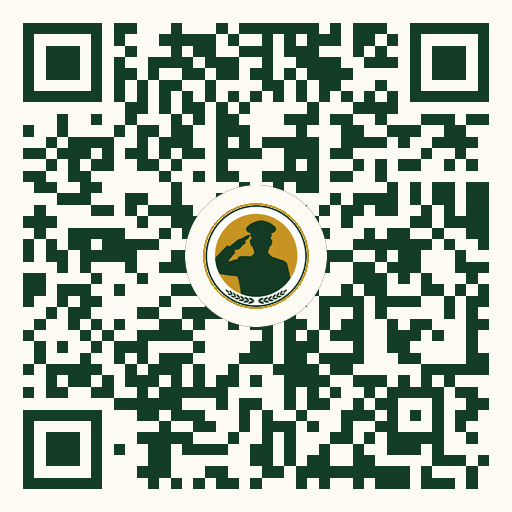
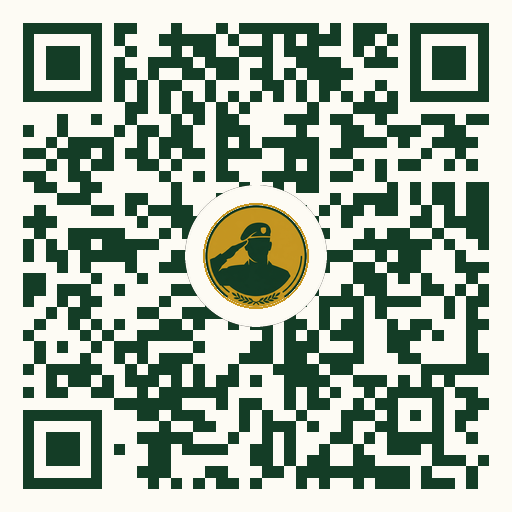
fix(v268): el emblema del QR llevaba gorra de plato y la tropa lleva boina
Corregido por indicacion del usuario: la gorra de plato es de oficiales y
suboficiales; la tropa lleva boina. La primera version del emblema era un
error de uniformidad, inaceptable en una academia de tropa.

Nuevo emblema: boina plana y redonda con emblema al frente, sin visera ni
plato. Regenerado el QR con tools/qr-micabo.py.

Lectura verificada de nuevo (la imagen es nueva): 21/21 de 100 a 300 px en
los dos tamanos, y aguanta foto torcida con perspectiva y desenfoque.
APPV/CACHE 268.

Changed region(s): [[0.4062, 0.4062, 0.5938, 0.625]]

diff --git a/sw.js b/sw.js
@@ -1,5 +1,5 @@
 /* MICABO — Service Worker demo (caché offline del app-shell) */
-const CACHE = "alaorden-v267";
+const CACHE = "alaorden-v268";
 const ASSETS = ["./", "index.html", "app.html", "css/style.css",  "js/data.js", "js/bank2.js", "js/bank3.js", "js/bank4.js", "js/study.js", "js/bank5.js", "js/bank7.js", "js/verdicts.js", "js/trivial.js", "js/app.js", "js/cloud.js", "js/tutor.js", "js/donation.js", "js/convocatorias.js", "js/bod-data.js", "js/temario.js", "js/biblio.js", "js/bank8.js", "js/bank9.js", "js/bank10.js", "js/bank11.js", "js/bank12.js", "js/bank13.js", "js/bank14.js", "js/bank15.js", "js/bank16.js", "js/bank17.js", "js/bank18.js", "js/bank19.js", "js/chat.js", "js/bank20.js", "js/bank21.js", "js/bank23.js", "js/bank24.js", "js/bank25.js", "js/bank26.js", "js/bank27.js", "js/bank28.js", "js/bank29.js", "js/bank30.js", "js/bank31.js", "js/bank32.js", "js/bank33.js", "js/bank34.js", "js/bank35.js", "js/bank36.js", "js/bank38.js", "js/bank39.js", "js/bank40.js", "js/bank41.js", "js/bank42.js", "js/bank43.js", "js/bank44.js", "js/bank45.js", "js/bank46.js", "js/bank47.js", "js/bank48.js", "js/bank49.js", "js/bank50.js", "js/bank51.js", "js/bank52.js", "js/bank53.js", "js/bank54.js", "js/bank55.js", "js/bank56.js", "js/bank57.js", "js/bank58.js", "js/bank59.js", "js/bank60.js", "js/bank61.js", "js/bank62.js", "js/bank63.js", "js/bank64.js", "js/bank65.js", "js/bank66.js", "js/bank67.js", "js/bank68.js", "js/bank69.js", "js/bank70.js", "js/bank71.js", "js/bank72.js", "js/bank73.js", "js/bank74.js", "js/bank75.js", "js/bank76.js", "js/bank77.js", "js/bank78.js", "js/bank79.js", "js/bank80.js", "js/bank81.js", "js/bank82.js", "js/bank83.js", "js/bank84.js", "js/bank85.js", "js/bank86.js", "js/bank87.js", "js/bank88.js", "js/bank89.js", "js/bank90.js", "js/bank91.js", "js/bank92.js", "js/bank93.js", "js/bank94.js", "js/bank95.js", "js/bank96.js", "js/bank97.js", "js/bank98.js", "js/bank99.js", "js/bank100.js", "js/bank101.js", "js/bank102.js", "js/bank103.js", "js/bank104.js", "js/bank105.js", "js/bank106.js", "js/bank107.js", "js/bank108.js", "js/bank109.js", "js/bank110.js", "js/bank111.js", "js/bank112.js", "js/bank113.js", "js/bank114.js", "js/bank115.js", "js/bank116.js", "js/bank117.js", "js/bank118.js", "js/bank119.js", "js/bank120.js", "js/bank121.js", "js/bank122.js", "js/bank123.js", "js/bank124.js", "js/bank125.js", "js/bank126.js", "js/bank127.js", "js/bank128.js", "js/bank129.js", "js/bank130.js", "js/bank131.js", "js/bank132.js", "js/bank133.js", "js/bank134.js", "js/bank135.js", "js/bank136.js", "js/bank137.js", "js/bank138.js", "js/bank139.js", "js/bank140.js", "js/bank141.js", "js/bank142.js", "js/bank143.js", "js/bank144.js", "js/bank145.js", "js/bank146.js", "checkout.html", "img/og.jpg", "img/kofi-logo.png", "img/bizum-logo.png", "img/qr-micabo.png", "img/qr-micabo@2x.png", "img/qr-soldado.png", "manifest.json", "icon.png"];
 self.addEventListener("install", e => {
   e.waitUntil(caches.open(CACHE).then(c => c.addAll(ASSETS)).then(() => self.skipWaiting()));

diff --git a/js/app.js b/js/app.js
@@ -1,7 +1,7 @@
 /* MICABO · Academia de Tropa — motor de la app */
 (function () {
 "use strict";
-window.APPV = "267" /* v127: ventana Bizum con importe + guía (número nunca visible) */; /* v106: acceso con Google (listo para activar), login/registro rediseñado, Lote 8 Bloque II */ /* versión visible en Ajustes y en la biblioteca */
+window.APPV = "268" /* v127: ventana Bizum con importe + guía (número nunca visible) */; /* v106: acceso con Google (listo para activar), login/registro rediseñado, Lote 8 Bloque II */ /* versión visible en Ajustes y en la biblioteca */
 const $ = (s, el) => (el || document).querySelector(s);
 const $$ = (s, el) => Array.from((el || document).querySelectorAll(s));
 const esc = s => String(s == null ? "" : s).replace(/[&<>"']/g, c => ({"&":"&amp;","<":"&lt;",">":"&gt;",'"':"&quot;","'":"&#39;"}[c]));
